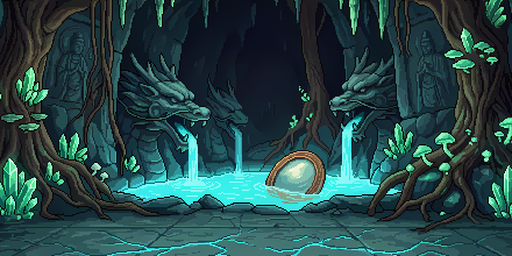
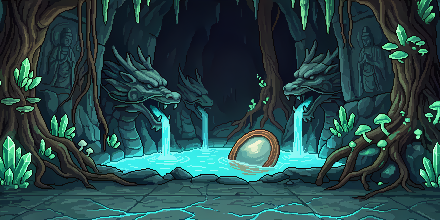
backgrounds: nearest-neighbour fill for transparent gaps, drop forced resize

diff --git a/scripts/gen_backgrounds.py b/scripts/gen_backgrounds.py
@@ -380,6 +380,30 @@ def crop_to_content(img, white_threshold=200):
     return cropped
 
 
+def fill_transparent(img):
+    """
+    Replace any remaining transparent pixels with their nearest opaque neighbour,
+    scanning each column vertically so sky/background tones extend naturally into
+    gaps rather than showing a flat fill colour.
+    """
+    w, h = img.size
+    px = img.load()
+    out = img.copy()
+    dst = out.load()
+
+    for x in range(w):
+        # Collect opaque pixels in this column
+        opaque = [(y, px[x, y]) for y in range(h) if px[x, y][3] > 128]
+        if not opaque:
+            continue
+        for y in range(h):
+            if px[x, y][3] <= 128:
+                nearest = min(opaque, key=lambda p: abs(p[0] - y))
+                r, g, b, _ = nearest[1]
+                dst[x, y] = (r, g, b, 255)
+    return out
+
+
 def run_finalize(scene_id, cand_n):
     if scene_id not in SCENES:
         raise ValueError(f"Unknown scene '{scene_id}'. Known: {list(SCENES)}")
@@ -392,22 +416,22 @@ def run_finalize(scene_id, cand_n):
 
     img = Image.open(src).convert("RGBA")
 
-    # Strip transparent padding and white/mist edge bands baked in by the API
+    # 1. Strip transparent padding and white/mist edge bands baked in by the API
     img = crop_to_content(img)
 
-    # Resize to exact target dimensions
-    img = img.resize((BG_WIDTH, BG_HEIGHT), Image.LANCZOS)
+    # 2. Fill any residual transparent pixels with their nearest opaque neighbour
+    #    (vertical scan — sky tones blend naturally into gaps, no flat colour fill)
+    img = fill_transparent(img)
 
-    # Flatten alpha — composite onto a solid dark background so no transparent
-    # pixels survive into the final file (avoids gaps/holes showing as card bg).
-    BG_FILL = (8, 8, 16, 255)
-    base = Image.new("RGBA", img.size, BG_FILL)
-    base.alpha_composite(img)
-    img = base.convert("RGB")
+    # 3. Drop alpha — save as opaque RGB.  CSS background-size:cover handles
+    #    display scaling; we don't force-resize so LANCZOS never re-introduces
+    #    alpha artefacts at crop boundaries.
+    img = img.convert("RGB")
 
     out_path = OUT_DIR / f"{scene_id}.png"
     img.save(str(out_path))
-    print(f"  Saved -> {out_path}")
+    cw, ch = img.size
+    print(f"  Saved {cw}x{ch} -> {out_path}")
     print(f"\n  Done.")
 
 
